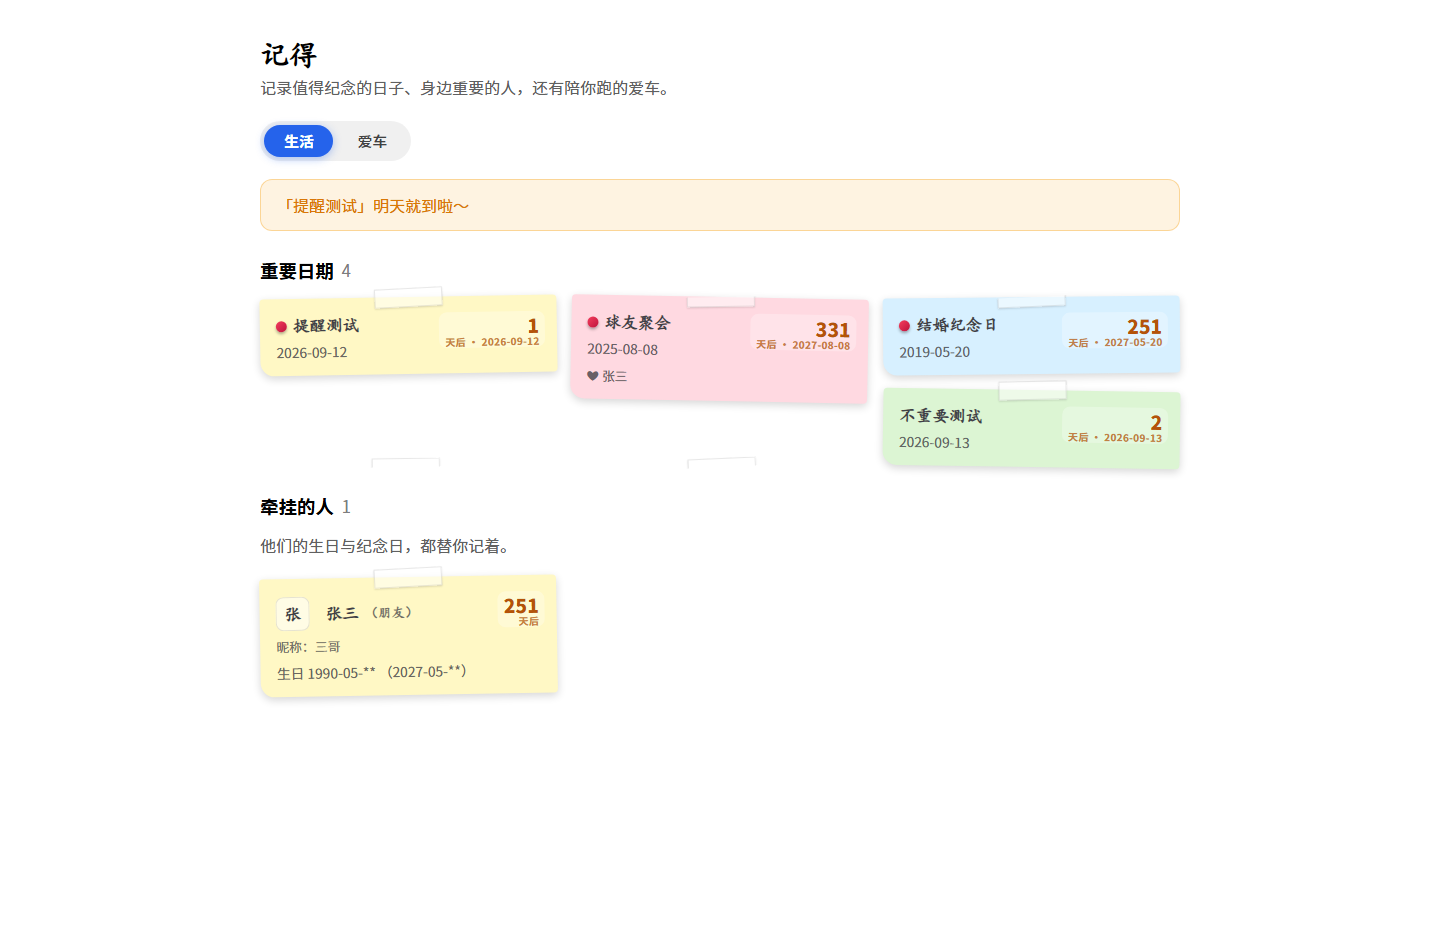
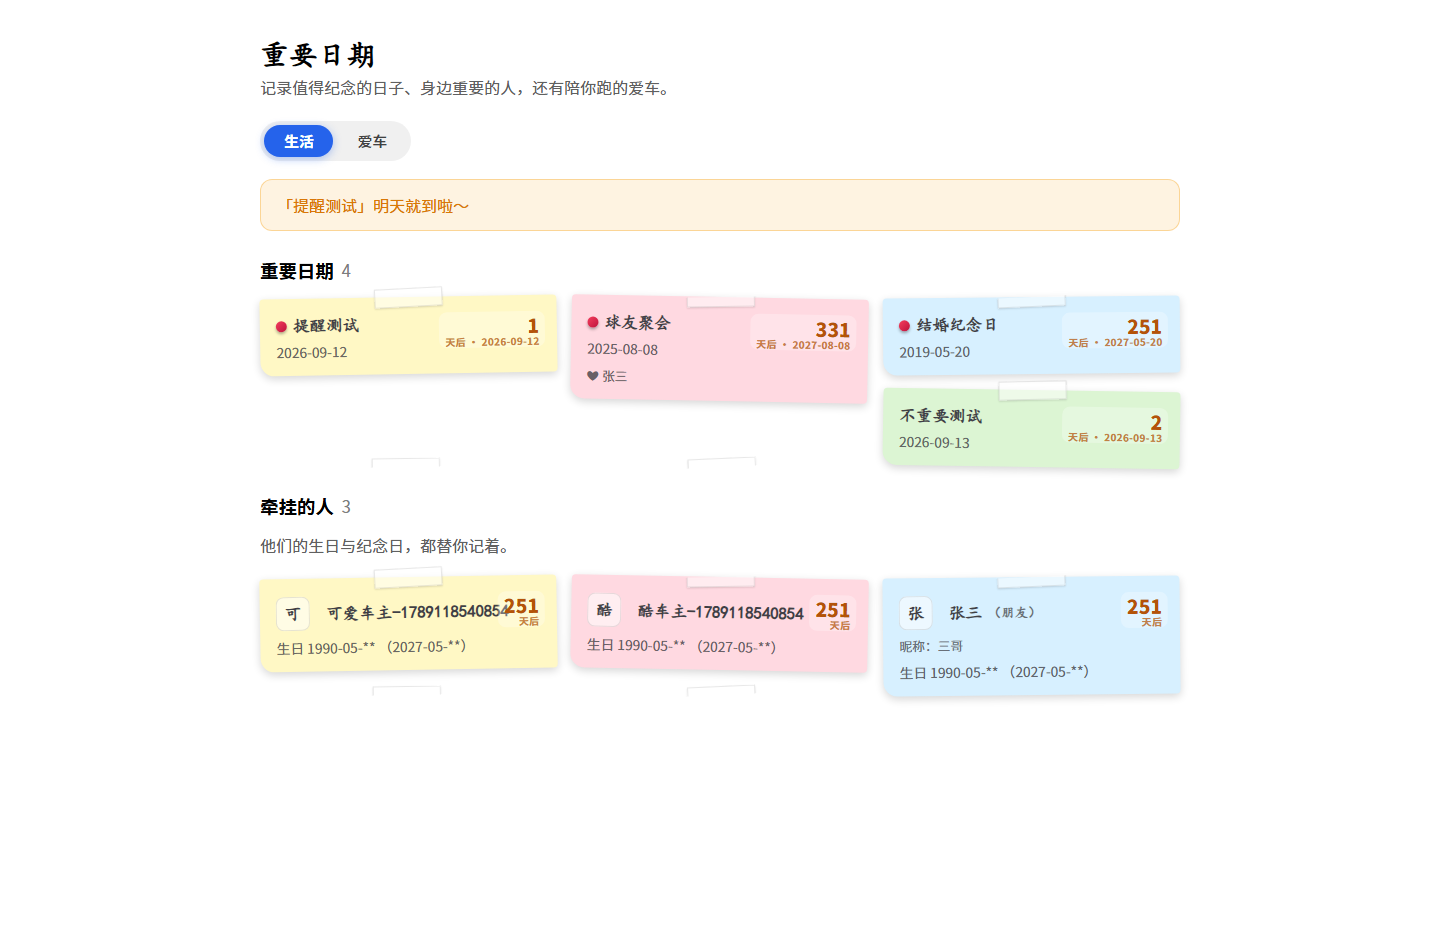
chore: 商店名称保持「重要日期」——产品内显示名回退(插件列表/菜单/页面/小组件/前台标题),新增商店封面(含座驾卖点,1600x900)、备选「记得」封面与应用信息文案(app-info.md),截图同步

Changed region(s): [[0.1562, 0.5862, 0.8438, 0.7404], [0.1875, 0.0309, 0.2812, 0.0926]]

diff --git a/console/src/components/ReminderWidget.vue b/console/src/components/ReminderWidget.vue
@@ -2,7 +2,7 @@
   <WidgetCard :body-class="['!p-0']">
     <template #title>
       <div class="inline-flex items-center gap-2">
-        <div class="text-base font-medium flex-1">📅 记得 · 到期提醒</div>
+        <div class="text-base font-medium flex-1">📅 重要日期提醒</div>
       </div>
     </template>
     <div class="p-4">
@@ -23,12 +23,12 @@
           <span class="whitespace-nowrap text-sm font-bold text-red-600">{{ daysLabel(r.daysUntil) }}</span>
         </div>
         <div class="text-xs text-gray-500">
-          来自「记得」插件；提前天数与开关可在 插件 → 记得 → 设置 中调整
+          来自「重要日期」插件；提前天数与开关可在 插件 → 重要日期 → 设置 中调整
         </div>
       </div>
       <div v-else>
         <div class="text-gray-500">最近没有重要日期提醒</div>
-        <a class="text-sm text-blue-600 hover:text-blue-700" href="/console/important-dates">去管理记得 →</a>
+        <a class="text-sm text-blue-600 hover:text-blue-700" href="/console/important-dates">去管理重要日期 →</a>
       </div>
     </div>
   </WidgetCard>

diff --git a/src/main/resources/templates/important-dates.html b/src/main/resources/templates/important-dates.html
@@ -2,7 +2,7 @@
 <html xmlns:th="https://www.thymeleaf.org"
   th:replace="~{layout :: html(head = ~{::head}, content = ~{::content})}">
   <th:block th:fragment="head">
-    <title th:text="${title}">记得</title>
+    <title th:text="${title}">重要日期</title>
     <meta name="viewport" content="width=device-width, initial-scale=1, maximum-scale=2" />
     <style>
       .id-wrap{max-width:920px;margin:0 auto;padding:24px 16px 8px;}
@@ -94,7 +94,7 @@
   <th:block th:fragment="content">
     <div class="id-wrap id-app" id="id-app" data-view="life" th:attr="data-skin-enabled=${carSkinEnabled}">
       <div class="id-hero">
-        <h1 class="id-hero-title" th:text="${title}">记得</h1>
+        <h1 class="id-hero-title" th:text="${title}">重要日期</h1>
         <p class="id-hero-sub">记录值得纪念的日子、身边重要的人，还有陪你跑的爱车。</p>
       </div>
 

diff --git a/console/src/index.ts b/console/src/index.ts
@@ -13,11 +13,11 @@ export default definePlugin({
         name: "ImportantDates",
         component: ImportantDatesView,
         meta: {
-          title: "记得",
+          title: "重要日期",
           searchable: true,
           permissions: ["plugin:important-dates:view"],
           menu: {
-            name: "记得",
+            name: "重要日期",
             group: "content",
             icon: markRaw(CalendarIcon),
             priority: 0,
@@ -33,7 +33,7 @@ export default definePlugin({
       {
         id: "important-dates-reminder",
         component: markRaw(ReminderWidget),
-        group: "记得",
+        group: "重要日期",
         defaultSize: { w: 6, h: 5, minW: 3, minH: 3, maxW: 12, maxH: 8 },
       },
     ],

diff --git a/console/src/views/ImportantDatesView.vue b/console/src/views/ImportantDatesView.vue
@@ -1,5 +1,5 @@
 <template>
-  <VPageHeader title="记得">
+  <VPageHeader title="重要日期">
     <template #actions>
       <VButton :loading="logLoading" @click="openLogs">操作日志</VButton>
       <VButton @click="exportData">导出</VButton>

diff --git a/src/main/java/com/yyliucha/importantdates/ImportantDateRouter.java b/src/main/java/com/yyliucha/importantdates/ImportantDateRouter.java
@@ -84,7 +84,7 @@ public class ImportantDateRouter {
                                 List<ImportantDateVo> reminders = tuple.getT1();
                                 List<CarVo.CarEventVo> events = tuple.getT2();
                                 Map<String, Object> model = new LinkedHashMap<>();
-                                model.put("title", "记得");
+                                model.put("title", "重要日期");
                                 model.put("dates", dates);
                                 model.put("people", people);
                                 model.put("reminders", reminders);

diff --git a/docs/store-assets/app-info.md b/docs/store-assets/app-info.md
@@ -1,0 +1,67 @@
+# 应用市场信息（编辑应用时直接复制）
+
+> 本文件用于 Halo 应用市场「编辑应用」表单：**列表简介**、**应用描述**、**封面/Logo**。
+> 应用名称保持不变：**重要日期**（插件 ID：`plugin-important-dates`）。
+
+## 一、列表简介（一句话，约 60–100 字）
+
+> 记录纪念日、生日（阳历/农历）与家人朋友，也替你管好爱车：保险、年检、保养到期自动提醒；支持人员大头贴与座驾相册、前台「生活 / 爱车」双视图、隐私脱敏，零系统配置写入。
+
+## 二、应用描述（详细版，可直接粘贴）
+
+**重要日期** 帮你在后台记下值得纪念的日子、身边重要的人，还有陪你跑的爱车。
+
+### 📅 重要日期
+- 名称 + 日期 + 多行备注；支持**阳历 / 农历（含闰月）**，农历自动换算当年阳历日期
+- **每年自动循环**，列表直接显示"最近一次"是哪天、还有几天
+- 自研日期选择器：阳历日历格内标注农历；农历可选年/月（含闰月）/日并实时换算；编辑时面板自动定位到已选日期
+- **拖拽排序**：先后台保存，前台与仪表盘按同一顺序展示
+- 重要/普通标识，重要日期参与提醒
+
+### 👤 人员管理
+- 姓名、昵称、关系（含"本人"）、生日（阳历/农历）、性别、血型、身高、体重、喜好、备注
+- **大头贴**：使用官方附件能力上传或从附件库选择
+- 重要日期可关联多人；人员列表可拖拽排序
+- **隐私**：日期与人员各有"前台展示"开关；体重、血型、身高、喜好、备注在前台永不输出；生日默认脱敏（可在设置中关闭）
+
+### 🚗 座驾（汽车 / 电瓶车 / 自行车）
+- 车辆档案：品牌、车系型号、**17 类分类**（轿车、SUV、MPV、跑车、越野车、皮卡、旅行车、两厢车、跨界车、微面、房车、货车、客车、摩托车、**电瓶车、自行车**、其他）、能源类型、颜色、车牌号、VIN、发动机号、注册/购买日期、里程、状态（在用车/已出售/已报废）
+- **多图相册**：上传或从附件库多选、拖拽排序、设封面；**每张可单独勾选"展示"**（未勾选仅后台可见，适合行驶证、保单等证件照）
+- **到期提醒**：交强险、商业险、年检、保养（支持按上次保养 + 间隔月数推算）、车船税、驾照换证、自定义项；每项可设启用与提前天数；按年循环项到期后自动滚动到下一次；已出售/报废车辆不再提醒
+- **关联人员**：车主与常用驾驶人可选，车辆卡片与人员卡片使用**统一徽章**（男生「酷」/ 女生「可爱」/ 未关联中性），并显示"车主 / 驾驶人"徽章
+- **隐私**：**车牌号在前台永远脱敏**（如 `粤B·****5`）；VIN、发动机号、保单号、购买价格永不输出到前台；车辆"前台展示"默认关闭
+
+### 🔔 到期提醒（三处可选）
+- **控制台仪表盘小组件**（Halo 2.21+）：常驻提醒，每分钟自动刷新
+- **后台 + 前台横幅**："「结婚纪念日」明天就到啦～"
+- **全站悬浮弹窗**：位置自选（含屏幕中间）、倒计时 + 进度条、关闭方式菜单（本次 / 3 天 / 10 天 / 永久）
+- 重要日期与座驾到期事项**统一排序（谁近谁靠前）**，悬浮弹窗每类最多显示 N 条、超出自动合并提示
+
+### 🖥 前台页面
+- 单页 **「生活 / 爱车」** 双视图切换（地址栏记忆）：
+  - 生活视图：重要日期 + **牵挂的人**（生日与纪念日倒计时）
+  - 爱车视图：车辆卡片（分类图标、**脱敏车牌**、到期徽章）+ **车主与驾驶人**（关系徽章含车名）+ 其他重要的人
+- **相册查看**：点击车辆封面 → 全屏浮层滚动查看（只读），仅显示后台勾选"展示"的照片
+- 通过官方**页面布局契约**复用主题外壳（主题不支持时使用 Halo fallback 布局）；主题可放置同名模板自行覆盖；**插件不写入、不修改任何主题文件**
+
+### 📊 其他
+- 操作日志：新增/编辑/删除全程记录，**分页浏览** + 按天自动清理（默认 30 天）
+- 导出 / 导入：JSON 备份与迁移（含人员与座驾，兼容旧版导出文件）
+- Finder API：`importantDateFinder`，主题可完全自定义展示
+
+### 🔒 兼容与合规
+- **Halo 2.26 及以上**（按官方 2.26 文档与扩展点实现；全新实例全量回归 44/44 通过）
+- 数据存于站点数据库；**无任何联网请求、不采集用户数据**；MIT 开源
+- 全站脚本经官方 `TemplateHeadProcessor` 输出；**零系统配置写入、零主题文件写入**
+
+## 三、素材文件
+
+| 用途 | 文件 | 规格 |
+| --- | --- | --- |
+| 封面图 | `docs/store-assets/cover.png` | 1600×900（名称「重要日期」，含座驾功能卖点与新截图） |
+| 封面图（备选，若允许改名为「记得」） | `docs/store-assets/cover-remember.png` | 1600×900 |
+| Logo | `docs/store-assets/logo.png` | 沿用现有 Logo（日历图标），无需更换 |
+
+## 四、版本说明（1.2.0）
+
+见 `docs/release-notes-1.2.0.md`（可直接粘贴到版本的「版本说明」字段）。
